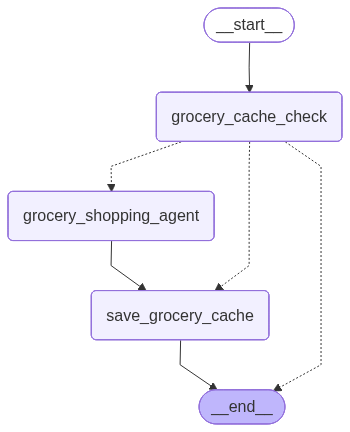
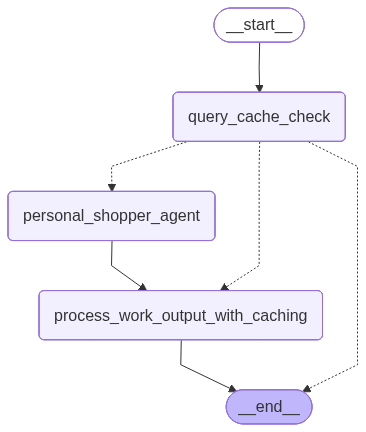
refactor: rename AI components and make addToCartTool quantities required
- Rename folder grocery-ai-agent → agentic-shopping-workflow
- Update function names for better clarity
- Make quantities parameter required in addToCartTool

diff --git a/services/ai/agentic-shopping-workflow/index.js b/services/ai/agentic-shopping-workflow/index.js
@@ -1,33 +1,36 @@
 import * as fs from "node:fs/promises";
+
 import { StateGraph, START, END } from "@langchain/langgraph";
-import { GroceryAgentState } from "./state.js";
-import { groceryCacheCheck, groceryShoppingAgent, saveGroceryToCache } from "./nodes.js";
 import { HumanMessage, AIMessage } from "@langchain/core/messages";
+
+import { ShoppingAgentState } from "./state.js";
+import { queryCacheCheck, personalShopperAgent, processWorkOutputWithCaching } from "./nodes.js";
+
 import ChatRepository from "../../chat/data/chat-repository.js";
 
 const chatRepository = new ChatRepository();
 
 /**
- * Create Grocery Shopping LangGraph Agent
- * 
- * This creates a specialized agent graph for grocery shopping with:
+ * Create Agentic AI Shopping Workflow
+ *
+ * This creates a multi-agent workflow system for intelligent shopping assistance with:
  * 1. Smart caching for recipe ingredient lists (long TTL) vs cart/search operations (no cache)
- * 2. Specialized grocery shopping tools with embeddings support
+ * 2. Specialized shopping tools with embeddings support
  * 3. Product ID-based cart management
  * 4. LLM-powered recipe ingredient knowledge + real product database
  */
-export const createGroceryShoppingAgent = () => {
-    const graph = new StateGraph(GroceryAgentState)
-        .addNode("grocery_cache_check", groceryCacheCheck)
-        .addNode("grocery_shopping_agent", groceryShoppingAgent)
-        .addNode("save_grocery_cache", saveGroceryToCache)
+export const createAgenticAIShoppingWorkflow = () => {
+    const graph = new StateGraph(ShoppingAgentState)
+        .addNode("query_cache_check", queryCacheCheck)
+        .addNode("personal_shopper_agent", personalShopperAgent)
+        .addNode("process_work_output_with_caching", processWorkOutputWithCaching)
 
-        .addEdge(START, "grocery_cache_check")
-        .addConditionalEdges("grocery_cache_check", (state) => {
-            return state.cacheStatus === "hit" ? END : "grocery_shopping_agent";
+        .addEdge(START, "query_cache_check")
+        .addConditionalEdges("query_cache_check", (state) => {
+            return state.cacheStatus === "hit" ? END : "personal_shopper_agent";
         })
-        .addEdge("grocery_shopping_agent", "save_grocery_cache")
-        .addEdge("save_grocery_cache", END)
+        .addEdge("personal_shopper_agent", "process_work_output_with_caching")
+        .addEdge("process_work_output_with_caching", END)
 
         .compile();
 
@@ -36,9 +39,9 @@ export const createGroceryShoppingAgent = () => {
     return graph;
 };
 
-export const groceryGraph = createGroceryShoppingAgent();
+export const shoppingWorkflowGraph = createAgenticAIShoppingWorkflow();
 
-export function getGroceryExecutionSummary(graphResult) {
+export function getWorkflowExecutionSummary(graphResult) {
     const summary = {
         toolsUsed: graphResult.toolsUsed || ["none"],
         cacheStatus: graphResult.cacheStatus || "miss",
@@ -80,9 +83,9 @@ export function getGroceryExecutionSummary(graphResult) {
 }
 
 /**
- * Main function to get grocery shopping reply
+ * Main function to execute the shopping workflow
  */
-export async function getGroceryShoppingReply(sessionId, chatId, message, useSmartRecall) {
+export async function runShoppingAgentWorkflow(sessionId, chatId, message, useSmartRecall) {
     try {
         const rawHistory = await chatRepository.getOrCreateChatHistory(sessionId, chatId);
 
@@ -97,14 +100,14 @@ export async function getGroceryShoppingReply(sessionId, chatId, message, useSma
         const userMessage = new HumanMessage(message);
         messages.push(userMessage);
 
-        // Run the grocery shopping graph
-        const result = await groceryGraph.invoke({
+        // Run the shopping workflow graph
+        const result = await shoppingWorkflowGraph.invoke({
             sessionId,
             messages,
         });
 
         // Get execution summary for logging
-        const executionSummary = getGroceryExecutionSummary(result);
+        const executionSummary = getWorkflowExecutionSummary(result);
 
         const finalReply = result.result || result.output;
 

diff --git a/services/ai/agentic-shopping-workflow/nodes.js b/services/ai/agentic-shopping-workflow/nodes.js
@@ -5,9 +5,9 @@ import { checkSemanticCache, saveToSemanticCache } from "../../chat/domain/chat-
 import CONFIG from "../../../config.js";
 
 /**
- * Node 1: Cache Check for Grocery Shopping
+ * Node 1: Query Cache Check
  */
-export const groceryCacheCheck = async (state) => {
+export const queryCacheCheck = async (state) => {
     const lastUserMessage = state.messages.findLast(m => m.getType() === "human");
     const userQuery = lastUserMessage?.content || "";
     
@@ -42,18 +42,17 @@ export const groceryCacheCheck = async (state) => {
 };
 
 /**
- * Node 2: Grocery Shopping Agent Node
- * 
- * Specialized agent with improved tool selection for faster responses
+ * Node 2: Personal Shopper Agent
+ *
+ * Specialized agent with tools for shopping-related tasks
  */
-export const groceryShoppingAgent = async (state) => {
+export const personalShopperAgent = async (state) => {
     const model = new ChatOpenAI({ 
         temperature: 0.1,
         model: CONFIG.modelName, 
         apiKey: CONFIG.openAiApiKey 
     });
 
-    // Enhanced system prompt with clear tool usage guidelines
     const systemPrompt = `You are a helpful grocery shopping assistant. You have access to specialized tools that return JSON data.
 
 🍳 **fast_recipe_ingredients**: For recipe/ingredient questions (USE THIS FIRST for recipes!)
@@ -79,8 +78,6 @@ export const groceryShoppingAgent = async (state) => {
 - Cooking tips, techniques, nutrition advice
 - Food storage, preparation methods
 - General culinary knowledge (not recipe ingredients!)
-
-
 
 **CRITICAL Tool Selection Rules:**
 1. Recipe/ingredient questions → ALWAYS use fast_recipe_ingredients FIRST
@@ -186,9 +183,9 @@ Make responses helpful, fast, and easy to interact with!`;
 };
 
 /**
- * Node 3: Save Grocery Results to Cache with LLM-based GDPR sanitization
+ * Node 3: Process Results for caching
  */
-export const saveGroceryToCache = async (state) => {
+export const processWorkOutputWithCaching = async (state) => {
     if (!state.result) {
         return {};
     }
@@ -196,7 +193,7 @@ export const saveGroceryToCache = async (state) => {
     const lastUserMessage = state.messages.findLast(m => m.getType() === "human");
     const query = lastUserMessage?.content || "";
 
-    // Determine TTL using smart logic
+    // Determine TTL for cache
     const cacheTTL = determineCacheTTL(query);
 
     // Don't cache if TTL is 0 (e.g., cart operations)
@@ -208,8 +205,8 @@ export const saveGroceryToCache = async (state) => {
     try {
         // Use LLM-based GDPR sanitization
         const [sanitizedQuery, sanitizedResponse ] =  await Promise.all([
-            sanitizeForGDPR(query),
-            sanitizeForGDPR(state.result)
+            dataComplianceAgent(query),
+            dataComplianceAgent(state.result)
         ]);
 
         console.log(`💾 Saving sanitized query to cache: "${sanitizedQuery.substring(0, 50)}..."`);
@@ -221,7 +218,7 @@ export const saveGroceryToCache = async (state) => {
             state.sessionId
         );
 
-        console.log(`💾 Cached with TTL: ${cacheTTL}ms (${Math.round(cacheTTL / (60 * 60 * 1000))}h) - GDPR compliant`);
+        console.log(`💾 Cached with TTL: ${cacheTTL}ms (${Math.round(cacheTTL / (60 * 60 * 1000))}h)`);
 
     } catch (error) {
         console.error('Error in GDPR-compliant caching:', error);
@@ -233,6 +230,7 @@ export const saveGroceryToCache = async (state) => {
 
 /**
  * Determine cache TTL based on query type
+ * TODO: To be replaced by a better caching logic (e.g: semantic routing)
  */
 function determineCacheTTL(query) {
     if (!query || typeof query !== 'string') {
@@ -271,7 +269,7 @@ function determineCacheTTL(query) {
  * LLM-based GDPR-compliant data sanitization
  * Uses AI to intelligently remove personal information while preserving the core query
  */
-async function sanitizeForGDPR(text) {
+async function dataComplianceAgent(text) {
     if (!text || typeof text !== 'string') return text;
 
     try {

diff --git a/services/ai/agentic-shopping-workflow/tools.js b/services/ai/agentic-shopping-workflow/tools.js
@@ -1,7 +1,8 @@
 import { tool } from "@langchain/core/tools";
-import { z } from "zod";
-import { ChatOpenAI } from "@langchain/openai";
 import { HumanMessage } from "@langchain/core/messages";
+import { ChatOpenAI } from "@langchain/openai";
+
+import { z } from "zod";
 
 // Import service functions
 import { findProductsForIngredients, searchProducts } from '../../products/domain/product-service.js';
@@ -17,7 +18,7 @@ import CONFIG from '../../../config.js';
  * @returns {Promise<Object>} Parsed ingredients data
  */
 async function getIngredientsFromLLM(recipe) {
-    // Use faster model for simple ingredient extraction
+
     const model = new ChatOpenAI({
         temperature: 0.1, // Lower temperature for more consistent parsing
         model: "gpt-4o-mini", // Faster, cheaper model for simple tasks
@@ -42,7 +43,6 @@ Rules:
 - Skip salt, water, oil unless special
 - Be concise and fast`;
 
-    // Simple LLM call - let the model handle timeouts naturally
     const response = await model.invoke([
         { role: "system", content: systemPrompt },
         new HumanMessage(`Ingredients for ${recipe}`)
@@ -296,7 +296,7 @@ export const addToCartTool = tool(
         schema: z.object({
             sessionId: z.string().describe("User session ID"),
             productIds: z.array(z.string()).describe("Array of product IDs to add"),
-            quantities: z.array(z.number()).optional().describe("Array of quantities for each product (default: 1 each)")
+            quantities: z.array(z.number()).describe("Array of quantities for each product (default: 1 each)")
         })
     }
 );
@@ -386,5 +386,5 @@ export const groceryTools = [
     addToCartTool,
     viewCartTool,
     clearCartTool,
-    directAnswerTool
+    directAnswerTool,
 ];

diff --git a/services/ai/agentic-shopping-workflow/state.js b/services/ai/agentic-shopping-workflow/state.js
@@ -1,5 +1,5 @@
-import { z } from "zod";
 import { MessagesZodState } from "@langchain/langgraph";
+import { z } from "zod";
 
 /**
  * Grocery Shopping Agent State Schema
@@ -7,7 +7,7 @@ import { MessagesZodState } from "@langchain/langgraph";
  * Extends the base `MessagesZodState` with grocery shopping specific metadata
  * for tracking session context, caching, tool invocation, and shopping cart details.
  *
- * @typedef {Object} GroceryAgentState
+ * @typedef {Object} ShoppingAgentState
  * @property {string} sessionId - Unique session ID for tracking the user's shopping session
  * @property {string} [result] - Optional result string, typically the agent's final response
  * @property {"hit" | "miss"} [cacheStatus] - Cache indicator showing if a cached result was used
@@ -17,7 +17,7 @@ import { MessagesZodState } from "@langchain/langgraph";
  * @property {string} [lastSearchQuery] - Last search query performed for context
  * @property {string} [recipeContext] - Current recipe being worked on (if any)
  */
-export const GroceryAgentState = MessagesZodState.extend({
+export const ShoppingAgentState = MessagesZodState.extend({
     sessionId: z.string(),
     result: z.string().optional(),
     cacheStatus: z.enum(["hit", "miss"]).optional(),

diff --git a/services/chat/domain/chat-service.js b/services/chat/domain/chat-service.js
@@ -1,5 +1,5 @@
 import ChatRepository from '../data/chat-repository.js';
-import { getGroceryShoppingReply } from '../../ai/grocery-ai-agent/index.js';
+import { runShoppingAgentWorkflow } from '../../ai/agentic-shopping-workflow/index.js';
 
 const chatRepository = new ChatRepository();
 
@@ -45,12 +45,12 @@ export async function endUserSession(sessionId) {
 }
 
 /**
- * Get reply from grocery AI agent
+ * Get reply from Shopping AI agent
  * @param {string} sessionId - User session ID
  * @param {string} chatId - Chat ID
  * @param {string} message - User message
  * @param {boolean} useSmartRecall - Whether to use smart recall caching
  */
-export async function getReplyFromGroceryAgent(sessionId, chatId, message, useSmartRecall) {
-    return getGroceryShoppingReply(sessionId, chatId, message, useSmartRecall);
+export async function processShoppingInquiry(sessionId, chatId, message, useSmartRecall) {
+    return runShoppingAgentWorkflow(sessionId, chatId, message, useSmartRecall);
 }

diff --git a/services/chat/api/chat-routes.js b/services/chat/api/chat-routes.js
@@ -1,5 +1,5 @@
 import { Router } from 'express';
-import { endUserSession, getReplyFromGroceryAgent } from '../domain/chat-service.js';
+import { endUserSession, processShoppingInquiry } from '../domain/chat-service.js';
 
 const router = Router();
 
@@ -12,7 +12,7 @@ router.post('/', async function(req, res, next) {
     }
 
     try {
-        const reply = await getReplyFromGroceryAgent(sessionId, chatId, message, useSmartRecall);
+        const reply = await processShoppingInquiry(sessionId, chatId, message, useSmartRecall);
         res.json({ 
             content: reply.content,
             isCachedResponse: reply.isCachedResponse

diff --git a/README.md b/README.md
@@ -22,7 +22,7 @@ Redish is an AI-powered grocery shopping platform that combines Redis's speed wi
 ## Tech Stack
 
 - **Node.js** + **Express** (Backend API)
-- **Redis** (Product store, conversational history, and semantic caching with LangCache)
+- **Redis** (Product store, conversational history, and semantic caching with Redis LangCache)
 - **LangGraph** (AI workflow orchestration)
 - **OpenAI API** (GPT-4 for intelligent responses)
 - **HTML + CSS + Vanilla JS** (Frontend)
@@ -183,7 +183,7 @@ services/
 
 ---
 
-## 🤝 Contributing
+## Contributing
 
 1. Fork the repository
 2. Create your feature branch (`git checkout -b feature/amazing-feature`)
@@ -193,7 +193,7 @@ services/
 
 ---
 
-## 📄 License
+## License
 
 This project is licensed under the MIT License - see the [LICENSE](LICENSE) file for details.
 
